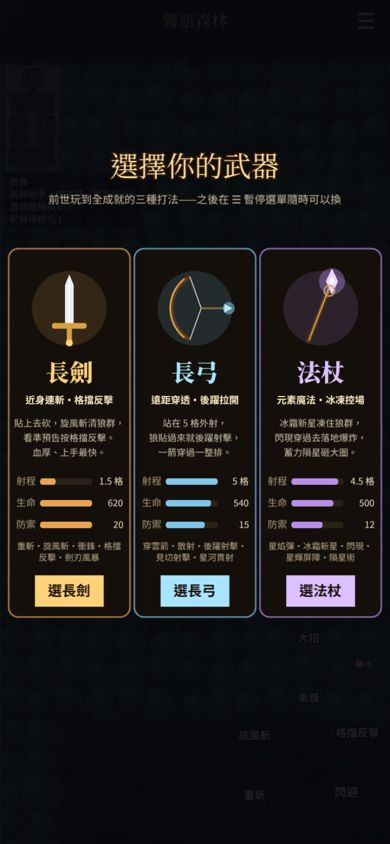
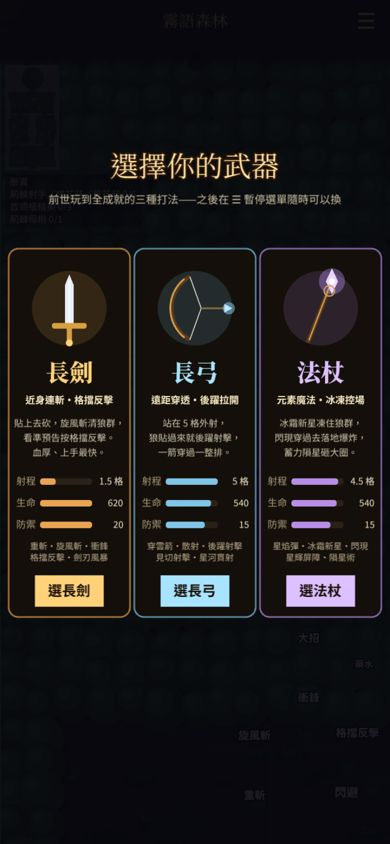
PROGRESS／NEXT：第 34 輪收尾（法杖手感第二輪）[skip ci]
Claude-Session: https://claude.ai/code/session_01VY35XoFgcC8Xqigmoc32zx

diff --git a/docs/PROGRESS.md b/docs/PROGRESS.md
@@ -1,6 +1,6 @@
 # 進度紀錄（新的在最上面）
 
-## 2026-10-26 18:14–19:05（台北）第 34 輪 — 武器表重構＋第三種武器「法杖」（D-152）、位移上限（D-153）、DOT 數字合併（D-154）、隕星術砸在前方（D-155）、裝備名／圖示跟著武器（D-156）
+## 2026-10-26 18:14–19:10（台北）第 34 輪 — 武器表重構＋第三種武器「法杖」（D-152）、位移上限（D-153）、DOT 數字合併（D-154）、隕星術砸在前方（D-155）、裝備名／圖示跟著武器（D-156）
 **背景**：沒有 Issue、art-inbox 空、FOR_JACKY 沒有新回覆、CI 全綠。照 NEXT 第 2 項（第三種武器，先重構）與第 3 項（DOT 數字、手機效能）。
 
 **做了什麼**
@@ -9,9 +9,10 @@
 - **D-155**：核心 `SkillHit.ahead`；隕星術蓄力時前方 3.5 格出現落點圈（跟著目標轉）。
 - **D-153**：閃現第一版 4 ticks 5 格 → Bot 被卡進牆裡；位移改成每 tick ≤ 50，加測試鎖住所有武器。
 - **D-154** DOT 數字合併；**D-156** 武器欄裝備名（霧鋼劍→霧鋼杖）與圖示跟著武器；小地圖一般怪改 4×4 方塊（指令 3212 → 3069）。
+- 法杖手感第二輪：閃現起點紫光消失／終點白光出現、擋下時六角形星輝護盾、雷暴每段兩道閃電、隕星術落點留燃燒的隕石坑 2.5 秒；選武器卡片招式名三＋二分行。
 - README（三種武器、截圖 69～74）、FOR_JACKY 第 19 題、DECISIONS D-152～156、PLAN。
 
-**驗證**：每次提交前 build＋`npx vitest run`（256 → **263 項**；新 `rt-staff` 6 項：三把武器 45 個招式名不重複、法杖定義與變化切換、位移上限、閃現距離、裝備顯示名、三種 Bot × 三組招式打倒狼王；`rt-campaign` 多一趟法杖）。**stateHash 89 場＋長弓 18 場（含兩種變化，新寫的 `zz-hashbow`）**：重構、法杖、`ahead` 之後都與本輪開頭（19047fa，git worktree）完全相同。Playwright（390×844，dsf 2）：清空存檔→略過序章→三張卡→點法杖→`s.weapon === 'staff'`；五種法杖特效（`tweens.timeScale` 放慢）；技能點面板（變化／變化二）；☰「武器：法杖 ⇄」；隕星術落點圈三個進度；行囊裡的霧鋼杖／王牙法杖與法杖圖示，皆無頁面錯誤。
+**驗證**：每次提交前 build＋`npx vitest run`（256 → **263 項**；新 `rt-staff` 6 項：三把武器 45 個招式名不重複、法杖定義與變化切換、位移上限、閃現距離、裝備顯示名、三種 Bot × 三組招式打倒狼王；`rt-campaign` 多一趟法杖）。**stateHash 89 場＋長弓 18 場（含兩種變化，新寫的 `zz-hashbow`）**：重構、法杖、`ahead` 之後都與本輪開頭（19047fa，git worktree）完全相同。Playwright（390×844，dsf 2）：六角護盾、閃現（`blinkMark` 從 `:s` 到 `:e`）、閃電、隕石坑；清空存檔→略過序章→三張卡→點法杖→`s.weapon === 'staff'`；五種法杖特效（`tweens.timeScale` 放慢）；技能點面板（變化／變化二）；☰「武器：法杖 ⇄」；隕星術落點圈三個進度；行囊裡的霧鋼杖／王牙法杖與法杖圖示，皆無頁面錯誤。
 
 **數據**（通關機器人，普通 Bot、沒裝備）：法杖 HP 500／防禦 12 時 75.6～103.6 分鐘（荊棘谷、裂谷各要 3～4 趟）→ 540／15 時 25.7～49.9 → 加 `ahead` 後 41.1（劍 45.7、弓 44.2）。狼王（Lv5、三種 Bot × 三組招式 × 2 種子）18 場都打倒，戰鬥 78～474 秒。
 

diff --git a/docs/NEXT.md b/docs/NEXT.md
@@ -1,6 +1,6 @@
 # 下一步（依優先順序，最上面先做）
 
-> 第 34 輪（10/26 19:05）更新；第 18 輪整理過：過時指示全部刪掉（Jacky 10/25 要求，D-089）。舊內容要查就看 git 歷史或 `docs/DECISIONS.md`。
+> 第 34 輪（10/26 19:10）更新；第 18 輪整理過：過時指示全部刪掉（Jacky 10/25 要求，D-089）。舊內容要查就看 git 歷史或 `docs/DECISIONS.md`。
 > **現在的方向**：單人即時動作戰鬥＋**四張大地圖**（霧語森林→荊棘谷→燼紅裂谷（結局）→星隕高原（通關後挑戰），D-062／063／065／087／114／125／138）。主規格 `docs/design/20-swordsman-and-map.md`。設計文件索引：`docs/design/README.md`。
 > 舊主線（回合制＋自由探索）**已刪除**（D-097）。排程 ⭐ 方向對照：自由走動 ✅（大地圖）、自由買賣 ✅（D-116 行商）、自由點技能 ✅（D-110／112／121）、卡牌小遊戲 ✅（D-127～139 營火燼牌，五位對手）、碰到場景觸發劇情 ✅（D-134 序章、D-137 前世的記憶、D-133 通關演出）、**戀愛線依 D-063 停止，不做**。README 不放開發日誌，開發紀錄只寫在 PROGRESS。
 > **加地圖的方法**（D-124）：`src/game/worldMaps.ts` 加一筆（稱呼、配色、decor、next、`postGame`）＋ `maps/<id>.ts`（產生器在 `scripts/gen-*-draft.py`）＋敵人資料＋ `SPRITE`＋ 3 段記憶（`memories.ts`，測試會要求）；`tests/rt-world-maps.test.ts`／`memories.test.ts` 會自動檢查。新 decor 要處理：地面 `paint`（`starD` 範例）、`Ambient` kind、`drawVents`／vent 事件顏色。
@@ -26,7 +26,7 @@
 
 ### 下一輪從這裡開始（依序）
 1. **Jacky 有回覆就照他的答案先做**（FOR_JACKY 第 4～19 題）。
-2. **法杖第二輪（選做）**：真人試玩前的手感——①「閃現」0.33 秒是滑過去，可以加「起點消失／終點出現」的閃光讓它更像瞬移（純畫面）；②隕星術落地後留 2 秒燃燒地面（新欄位或用灼燒狀態）；③雷暴每段落雷的畫面（現在是共用魔法陣）；④星輝屏障擋下時的六角護盾。Bot 不會用冰凍拉開距離，數值先不動。
+2. **法杖第三輪（選做）**：第 34 輪已做閃現消失／出現、六角護盾、雷暴閃電、隕石坑（都是純畫面）。還可以：星焰彈命中時敵人身上的火苗更明顯、時間凝滯的「時鐘」圖樣、虛空奇點的黑洞吸入粒子。Bot 不會用冰凍拉開距離，數值先不動。
 3. **打磨期（11/4 起功能凍結）之前**：手機效能還可以做：旅商／燼牌對手烘成貼圖；README 截圖是否需要重拍（舊截圖 9:16 有黑邊，可接受）；新手引導再看一次（第一次接敵、第一次升級、第一次撿裝備的提示順序）。
 4. **長弓／法杖的主角圖（選做）**：拿弓／拿杖的 Q 版圖（ART_REQUESTS，GPT 只剩 1，FOR_JACKY 第 17／19 題問）；真機聽 `SFX.bowShot`／`magicBolt`。**不要再試「Bot 放風箏」**（D-148）。
 5. **星隕高原第三輪（選做）**：還要更好就等 Jacky 回 FOR_JACKY 第 15 題排 GPT 圖；星蝕狼／彗星巡者是霧狼染色；Bot 撿星光碎片。
